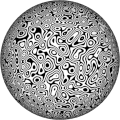
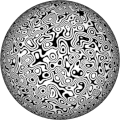
Fixed snapshots of "Isolines"

diff --git a/docs/patterns.md b/docs/patterns.md
@@ -81,7 +81,7 @@ options = {
 # Isolines
 <img src="images/isolines.jpg">
 
-[<img src="images/isolines-1.png">](https://boytchev.github.io/texture-generator/online/isolines?a=50&b=10&d=20&c=16777215&k=0&r=10&s=50) [<img src="images/isolines-2.png">](https://boytchev.github.io/texture-generator/online/isolines?a=11&b=65&d=20&c=16777215&k=1443&r=10&s=81)  [<img src="images/isolines-3.png">](https://boytchev.github.io/texture-generator/online/isolines?a=22&b=0&d=15&c=13574176&k=16777215&r=10&s=100) 
+[<img src="images/isolines-1.png">](https://boytchev.github.io/texture-generator/online/isolines?a=50&b=10&d=20&c=16777215&k=0&r=9&s=50) [<img src="images/isolines-2.png">](https://boytchev.github.io/texture-generator/online/isolines?a=11&b=65&d=20&c=16777215&k=1443&r=9&s=81)  [<img src="images/isolines-3.png">](https://boytchev.github.io/texture-generator/online/isolines?a=22&b=0&d=15&c=13574176&k=16777215&r=9&s=100) 
 
 #### Options:
 
